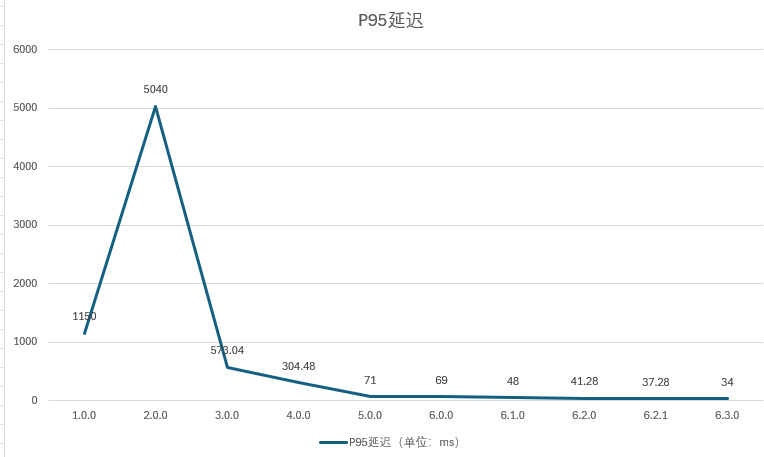
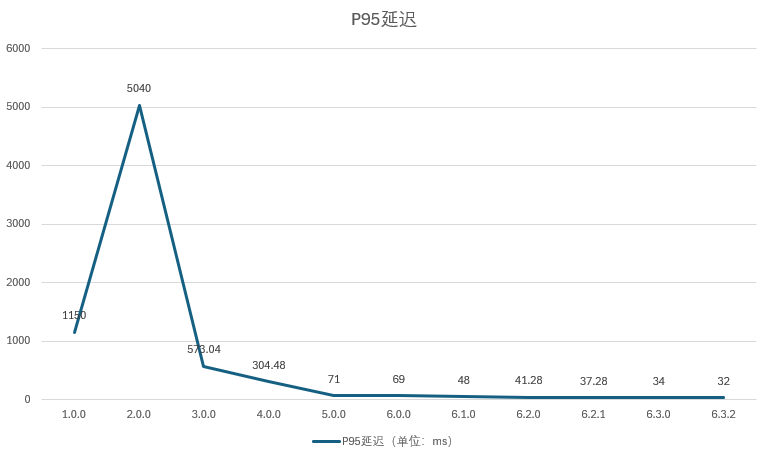
docs: 修改文档 (#59)
* docs: 完善项目文档

* docs: 补充6.3.2更新日志

* docs: 修改文档

diff --git a/README.md b/README.md
@@ -1,9 +1,5 @@
 # Golang微服务架构演进实践
 
-## 声明
-- 请勿未经允许使用Releases的产物及源码用于商业用途，若需合作请发送邮件到zhanshen02154@gmail.com联系作者本人。
-- 严禁将代码及产物（含附属品）用于非法活动如赌博、诈骗、洗钱等，一经发现将追究法律责任！
-
 ## 项目概述
 以“模拟订单支付成功回调扣减商品库存”链路进行微服务架构演进的深度实践，部署在K8S集群，总体为事件驱动架构，服务是领域驱动架构，服务各层均设计为可插拔结构便于替换组件。
 全项目采用Scrum，迭代周期为2周，管理工具为Github Project。
@@ -19,10 +15,27 @@
 ## 项目特点
 - 修改Go micro v4底层源码以满足实际需求。
 - 将事件驱动架构落地实现端到端交付。
-- 支付回调API接口P95响应时间从最初的1150ms降低到34ms[博客链接](https://juejin.cn/post/7604507125857337371)。
+- 支付回调API接口P95响应时间从最初的1150ms降低到32ms[博客链接](https://juejin.cn/post/7604507125857337371)。
 - 可观测性基础设施由自建迁移到云服务，降低使用成本。
 - 实现配置中心化，减少对Configmap的依赖。
 - 依托GitHub结合Jenkins流水线实现CI/CD。
+
+## 项目压测及负载测试
+由于SLB存在成本，回调API接口压测及负载测试环境使用本地电脑的Nginx配置反向代理充当“负载均衡器”连接Apisix，会受到Windows系统内置组件及后台应用程序的干扰，但Nginx参数调大让其处理更多连接。
+
+### 性能测试方法变更及绝对数值变化说明
+1.0.0--4.0.0为极限压测，5.0.0起不再检测极限压力转向负载测试，期间有改变测试参数，在本文“各版本测试报告”中均有说明。改变测试方法后绝对数值变化较大但仍会暴露性能瓶颈，更符合生产环境需要。
+
+6.2.1的负载测试将高峰阶段3分钟的vus从400上调到405，最大延迟略有增加，6.3.2的最大vus为410但回落至87ms。
+
+### 压测及负载测试环境
+- Apisix x 2（NodePort）; 单个Pod限制1核CPU + 1G内存
+- Windows 11 
+- Nginx 1.15.11 使用8核CPU，参数全部调大以减少对测试结果的干扰。
+
+### P95延迟和最大延迟变化表
+![P95延迟](./docs/P95.png)
+![最大延迟](./docs/max_duration.png)
 
 ## 各服务代码仓库及相关文档
 ### 订单服务
@@ -45,25 +58,6 @@
 
 - [项目路线图](https://github.com/users/zhanshen02154/projects/3/views/4)
 
-## 项目压测及负载测试
-由于SLB存在成本，回调API接口压测及负载测试环境使用本地电脑的Nginx配置反向代理充当“负载均衡器”连接Apisix，会受到Windows系统内置组件及后台应用程序的干扰，但Nginx参数调大让其处理更多连接。
-
-### 性能测试方法变更及绝对数值变化说明
-1.0.0--4.0.0为极限压测，5.0.0起不再检测极限压力转向负载测试，期间有改变测试参数，在本文“各版本测试报告”中均有说明。改变测试方法后绝对数值变化较大但仍会暴露性能瓶颈，更符合生产环境需要。
-
-6.2.1的负载测试将高峰阶段3分钟的vus从400上调到405，最大延迟略有增加。
-
-## 日志系统架构图
-![log](./docs/log.jpg)
-
-### 压测及负载测试环境
-- Apisix x 2（NodePort）; 单个Pod限制1核CPU + 1G内存
-- Windows 11 
-- Nginx 1.15.11 使用8核CPU，参数全部调大以减少对测试结果的干扰。
-
-### P95延迟和最大延迟变化表
-![P95延迟](./docs/P95.png)
-![最大延迟](./docs/max_duration.png)
 
 ### 各版本测试报告
 - [6.3.0负载测试报告](https://github.com/zhanshen02154/go-micro-service/issues/54)
@@ -126,6 +120,9 @@ k8s-master为K8S集群主节点，k8s-node1--3为子节点。
 - [变更日志](./docs/CHANGELOG.md)
 - [决策记录](./docs/DECISIONS.md)
 - [路线图](https://github.com/users/zhanshen02154/projects/1/views/4)
+
+## 日志系统架构图
+![log](./docs/log.jpg)
 
 ## 项目改造前后对比
 
@@ -232,3 +229,7 @@ kubectl apply -f <filename>
 - 安装kafka 3.0.1，用kraft模式
 - 安装postman直连微服务
 - 开发工具自行选择，goland 2024.1或vscode均可，确保配置好代码格式化工具。
+
+## 声明
+- 请勿未经允许使用Releases的产物及源码用于商业用途，若需合作请发送邮件到zhanshen02154@gmail.com联系作者本人。
+- 严禁将代码及产物（含附属品）用于非法活动如赌博、诈骗、洗钱等，一经发现将追究法律责任！
